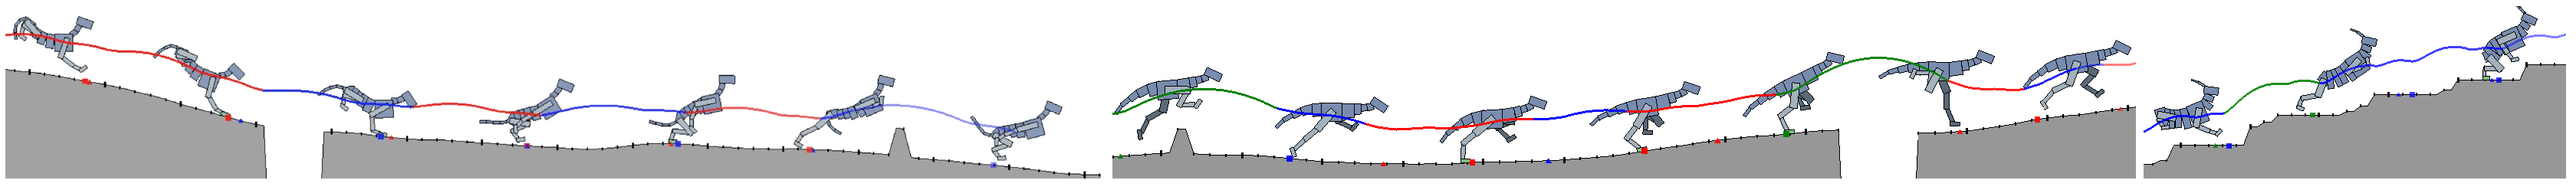
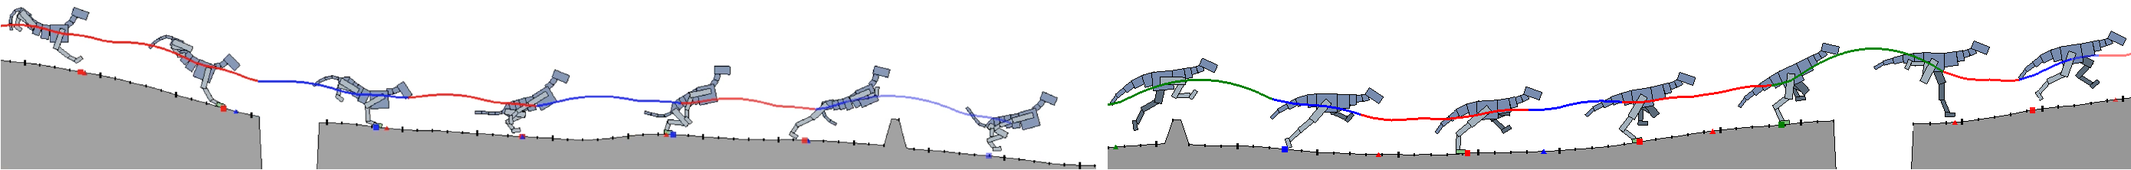
tweaks

Changed region(s): [[0.0, 0.0541, 1.0, 1.0]]

diff --git a/projects/DeepTerrainRL/index.html b/projects/DeepTerrainRL/index.html
@@ -12,6 +12,6 @@ title: Terrain-Adaptive Locomotion Skills Using Deep Reinforcement Learning
 		Xue Bin Peng &emsp;&emsp; Glen Berseth &emsp;&emsp; Michiel van de Panne <br>
 		University of British Columbia	<br>
 		<br>
-		<img style="vertical-align:middle" src="deepterrainrl_teaser.png"  width="95%" height="inherit" title="Lucy - Elfen Lied" />
+		<img style="vertical-align:middle" src="deepterrainrl_teaser.png"  width="100%" height="inherit" title="Lucy - Elfen Lied" />
 	</center>
 </td>
